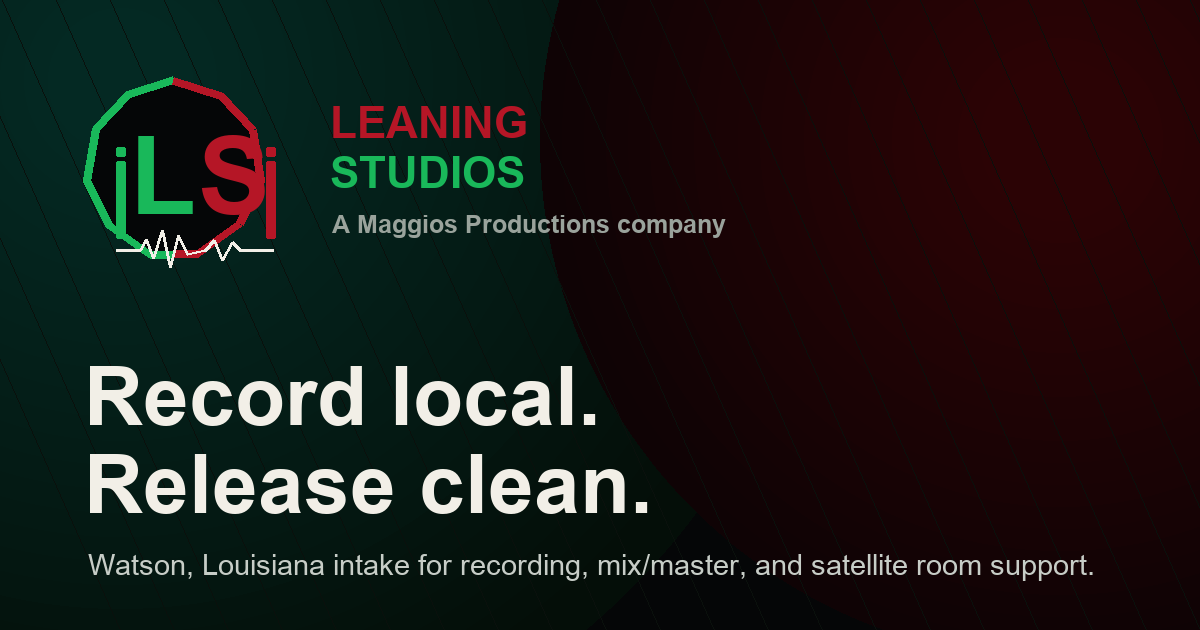
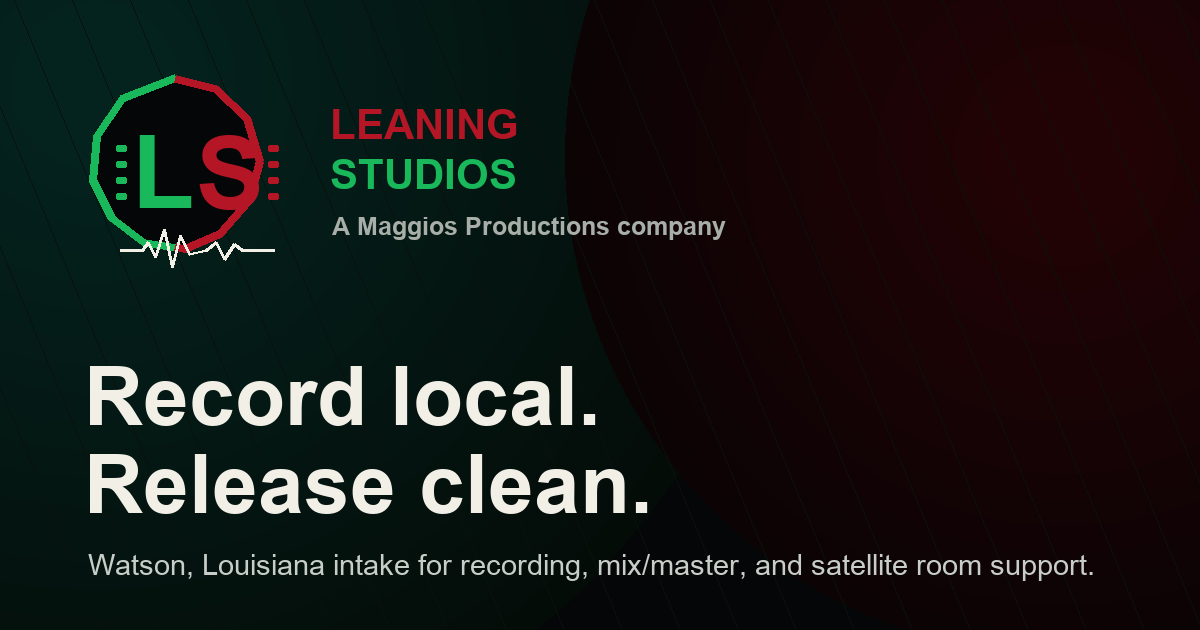
Accept Leaning Studios website 0.0.0.9 shield identity refinement polish

diff --git a/styles.css b/styles.css
@@ -7,14 +7,14 @@
   --deep-red: #5f0710;
   --signal-red: #b51626;
   --text: #f2efe7;
-  --muted: #9aa39c;
-  --line: #1c2a22;
-  --green-border: rgba(25, 184, 90, 0.22);
-  --red-border: rgba(181, 22, 38, 0.22);
+  --muted: #a7afa8;
+  --line: #24352b;
+  --green-border: rgba(25, 184, 90, 0.26);
+  --red-border: rgba(181, 22, 38, 0.26);
   --accent: var(--signal-green);
   --accent-strong: #43e879;
   --danger: var(--signal-red);
-  --shadow: 0 22px 70px rgba(0, 0, 0, 0.38);
+  --shadow: 0 22px 58px rgba(0, 0, 0, 0.36);
   color-scheme: dark;
 }
 
@@ -74,8 +74,8 @@ button {
   position: sticky;
   top: 0;
   z-index: 10;
-  border-bottom: 1px solid rgba(25, 184, 90, 0.14);
-  background: rgba(5, 6, 7, 0.9);
+  border-bottom: 1px solid rgba(25, 184, 90, 0.16);
+  background: rgba(5, 6, 7, 0.92);
   backdrop-filter: blur(18px);
 }
 
@@ -86,34 +86,34 @@ button {
   gap: 1.5rem;
   width: min(1120px, calc(100% - 2rem));
   margin: 0 auto;
-  padding: 0.85rem 0;
+  padding: 0.75rem 0;
 }
 
 .brand {
   display: inline-flex;
   align-items: center;
-  gap: 0.65rem;
+  gap: 0.7rem;
   min-width: max-content;
   text-decoration: none;
 }
 
 .brand-mark {
-  width: 3.4rem;
-  height: 3.4rem;
+  width: 3.25rem;
+  height: 3.25rem;
   flex: 0 0 auto;
 }
 
 .brand-wordmark {
   display: grid;
-  gap: 0.05rem;
+  gap: 0.08rem;
   line-height: 1;
 }
 
 .brand-word {
   display: block;
-  font-size: 1rem;
+  font-size: 0.98rem;
   font-weight: 950;
-  letter-spacing: 0.12em;
+  letter-spacing: 0.14em;
 }
 
 .brand-word-red {
@@ -126,7 +126,7 @@ button {
 
 .brand-parent {
   display: block;
-  padding-left: 0.85rem;
+  padding-left: 0.9rem;
   border-left: 1px solid rgba(242, 239, 231, 0.16);
 }
 
@@ -149,7 +149,7 @@ button {
 .nav-links a {
   min-height: 2.5rem;
   padding: 0.62rem 0.78rem;
-  border-radius: 0.4rem;
+  border-radius: 0.35rem;
   color: var(--muted);
   font-size: 0.94rem;
   font-weight: 700;
@@ -158,7 +158,7 @@ button {
 
 .nav-links a:hover,
 .nav-links a:focus-visible {
-  background: linear-gradient(90deg, rgba(25, 184, 90, 0.12), rgba(181, 22, 38, 0.08));
+  background: linear-gradient(90deg, rgba(25, 184, 90, 0.13), rgba(181, 22, 38, 0.09));
   color: var(--text);
 }
 
@@ -283,36 +283,39 @@ h3 {
 }
 
 .button-primary {
-  background: var(--accent);
+  border-color: rgba(67, 232, 121, 0.5);
+  background: linear-gradient(180deg, #45e878 0%, var(--signal-green) 100%);
   color: #031008;
+  box-shadow: 0 10px 28px rgba(25, 184, 90, 0.16);
 }
 
 .button-primary:hover,
 .button-primary:focus-visible {
-  background: var(--accent-strong);
+  background: linear-gradient(180deg, #58f087 0%, #1fca64 100%);
+  box-shadow: 0 12px 32px rgba(25, 184, 90, 0.22);
 }
 
 .button-secondary {
-  border-color: rgba(181, 22, 38, 0.48);
-  background: rgba(181, 22, 38, 0.08);
+  border-color: rgba(181, 22, 38, 0.42);
+  background: linear-gradient(180deg, rgba(181, 22, 38, 0.11), rgba(8, 17, 13, 0.54));
   color: var(--text);
 }
 
 .button-secondary:hover,
 .button-secondary:focus-visible {
-  border-color: rgba(25, 184, 90, 0.78);
-  background: rgba(25, 184, 90, 0.08);
+  border-color: rgba(25, 184, 90, 0.66);
+  background: linear-gradient(180deg, rgba(25, 184, 90, 0.11), rgba(8, 17, 13, 0.58));
 }
 
 .hero-panel {
   min-height: 24rem;
   padding: 1.2rem;
-  border: 1px solid var(--green-border);
+  border: 1px solid rgba(25, 184, 90, 0.24);
   border-radius: 0.5rem;
   background:
     linear-gradient(145deg, rgba(11, 21, 16, 0.96), rgba(8, 17, 13, 0.82)),
     repeating-linear-gradient(90deg, transparent 0 12px, rgba(25, 184, 90, 0.045) 12px 13px);
-  box-shadow: var(--shadow);
+  box-shadow: 0 18px 50px rgba(0, 0, 0, 0.34);
 }
 
 .hero-panel p {
@@ -413,7 +416,7 @@ h3 {
 .rate-card {
   border: 1px solid var(--green-border);
   border-radius: 0.5rem;
-  background: rgba(8, 17, 13, 0.92);
+  background: linear-gradient(180deg, rgba(11, 21, 16, 0.94), rgba(7, 13, 10, 0.92));
 }
 
 .path-card {
@@ -427,7 +430,7 @@ h3 {
 .path-card:hover,
 .path-card:focus-visible {
   border-color: rgba(25, 184, 90, 0.72);
-  background: rgba(11, 21, 16, 0.98);
+  background: linear-gradient(180deg, rgba(13, 27, 19, 0.98), rgba(8, 17, 13, 0.96));
 }
 
 .path-card span {
@@ -596,7 +599,7 @@ h3 {
   border: 1px solid var(--green-border);
   border-radius: 0.5rem;
   background: var(--panel);
-  box-shadow: var(--shadow);
+  box-shadow: 0 20px 54px rgba(0, 0, 0, 0.34);
 }
 
 .contact-form label {
@@ -785,25 +788,26 @@ h3 {
   }
 
   .brand {
-    gap: 0.6rem;
+    gap: 0.55rem;
   }
 
   .brand-mark {
-    width: 3rem;
-    height: 3rem;
+    width: 2.85rem;
+    height: 2.85rem;
   }
 
   .brand-word {
-    font-size: 0.86rem;
-    letter-spacing: 0.08em;
+    font-size: 0.82rem;
+    letter-spacing: 0.09em;
   }
 
   .brand-parent {
-    padding-left: 0.6rem;
+    padding-left: 0.55rem;
   }
 
   .brand-parent small {
-    max-width: 8.6rem;
+    max-width: 8rem;
+    font-size: 0.68rem;
   }
 
   .nav-links {